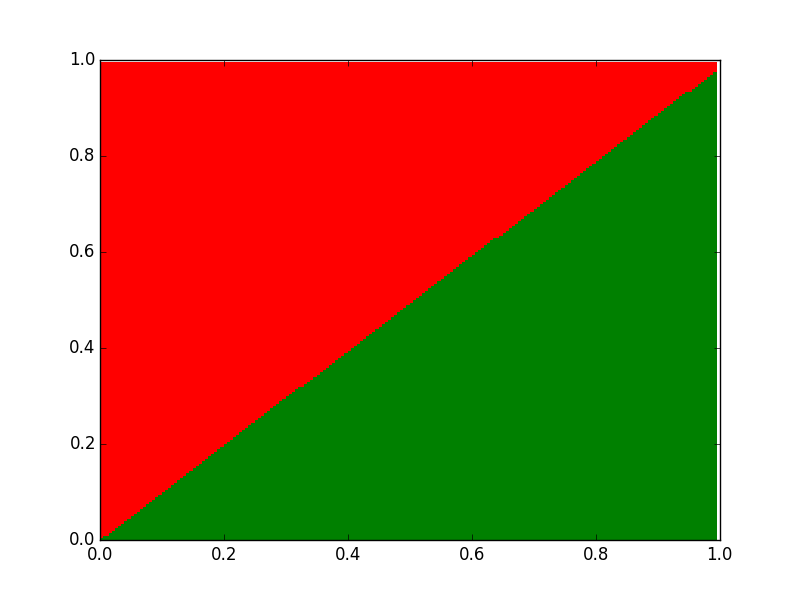
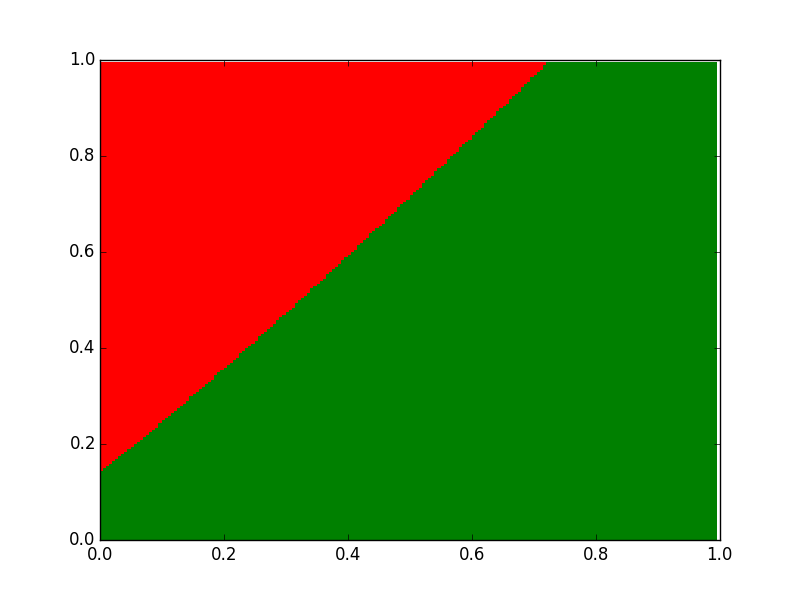
lasvm

Changed region(s): [[0.125, 0.09, 0.9062, 0.9]]

diff --git a/homework3/problem3.py b/homework3/problem3.py
@@ -101,8 +101,109 @@ class BudgetKernelPerceptron(KernelPerceptron):
         self.sv_y = y[sv]
         print "%d support vectors out of %d points" % (len(self.alpha), n_samples)
 
+class LaSVM(KernelPerceptron):
+    def __init__(self, C, kernel, tau, eps=0.001):
+        self.S = []
+        self.a = []
+        self.g = []
+        self.y = []
+        self.C = C
+        self.k = kernel
+        self.tau = tau
+        self.eps = eps
+        self.b = 0
+        self.delta = 0
+        self.i = 0
+        self.misses = 0
+        
+    def predict(self, v):
+        return sum(self.a[i]*self.k(self.S[i],v) for i in xrange(len(self.S)))
+
+    def A(self, i):
+        return min(0, self.C*self.y[i])
+    
+    def B(self, i):
+        return max(0, self.C*self.y[i])
+
+    def tau_violating(self, i, j):
+        return ((self.a[i] < self.B(i)) and
+                (self.a[j] > self.A(j)) and
+                (self.g[i] - self.g[j] > self.tau))
+
+    def extreme_ij(self):
+        S = self.S
+        i = np.argmax(list((self.g[i] if self.a[i]<self.B(i) else -np.inf)
+                           for i in xrange(len(S))))
+        j = np.argmin(list((self.g[i] if self.a[i]>self.A(i) else np.inf)
+                           for i in xrange(len(S))))
+        return i,j
+
+    def lbda(self, i, j):
+        S = self.S
+        l= min((self.g[i]-self.g[j])/(self.k(S[i],S[i])+self.k(S[j],S[j])-self.k(S[i],S[j])),
+               self.B(i)-self.a[i],
+               self.a[j]-self.A(j))
+        self.a[i] += l
+        self.a[j] -= l
+        for s in xrange(len(S)):
+            self.g[s] -= l*(self.k(S[i],S[s])-self.k(S[j],S[s]))
+        return l
+    
+    def lasvm_process(self, v, cls, w):
+        self.S.append(v)
+        self.a.append(0)
+        self.y.append(cls)
+        self.g.append(cls - self.predict(v))
+        if cls > 0:
+            i = len(self.S)-1
+            foo, j = self.extreme_ij()
+        else:
+            j = len(self.S)-1
+            i, foo = self.extreme_ij()
+        if not self.tau_violating(i, j): return
+        S = self.S
+        lbda = self.lbda(i,j)
+
+    def lasvm_reprocess(self):
+        S = self.S
+        i,j = self.extreme_ij()
+        if not self.tau_violating(i,j): return
+        lbda = self.lbda(i,j)
+        i,j = self.extreme_ij()
+        to_remove = []
+        for s in xrange(len(S)):
+            if self.a[s] < self.eps:
+                to_remove.append(s)
+        for s in reversed(to_remove):
+            del S[s]
+            del self.a[s]
+            del self.y[s]
+            del self.g[s]
+        i,j = self.extreme_ij()
+        self.b = (self.g[i]+self.g[j])/2.
+        self.delta = self.g[i]-self.g[j]
+
+    def update(self, v, c, w):
+        if len(self.S) < 10:
+            self.S.append(v)
+            self.y.append(c)
+            self.a.append(c)
+            self.g.append(0)
+            for i in xrange(len(self.S)):
+                self.g[i] = self.y[i]-self.predict(self.S[i])
+        else:
+            if c*(self.predict(v) + self.b) < 0:
+                self.misses += 1
+            self.i += 1
+            self.lasvm_process(v,c,w)
+            self.lasvm_reprocess()
+            self.lasvm_reprocess()
+            if self.i % 1000 == 0:
+                print "m", self.misses, "s", len(self.S)
+                self.misses = 0
+
 # Do not change these three lines.
-data = np.loadtxt("data.csv", delimiter=',')[:10000]
+data = np.loadtxt("data.csv", delimiter=',')[:2000]
 X = data[:, :2]
 Y = data[:, 2]
 
@@ -111,11 +212,11 @@ beta = 0
 N = 100
 numsamples = 2000
 
-kernel_file_name = 'smo.png'
-budget_kernel_file_name = 'smo.png'
+kernel_file_name = 'k.png'
+budget_kernel_file_name = 'bk.png'
 
 # Don't change things below this in your final version. Note that you can use the parameters above to generate multiple graphs if you want to include them in your writeup.
-k = KernelPerceptron(numsamples)
+k = KernelPerceptron(numsamples, kernel=gaussian_kernel)
 k.fit(X,Y)
 k.visualize(kernel_file_name, width=0, show_charts=True, save_fig=True, include_points=False)
 
